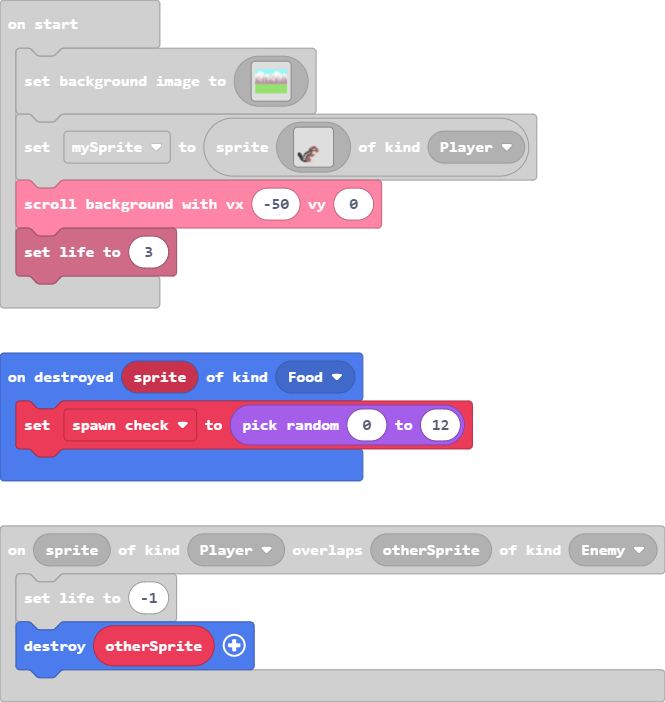
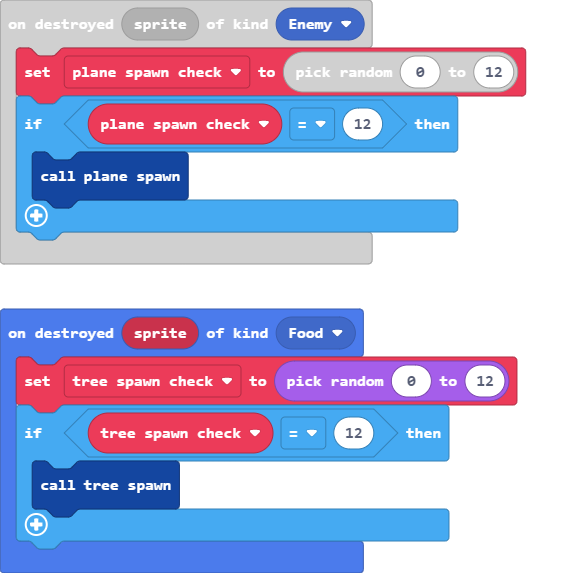
Update main.blocks, main.ts

diff --git a/main.ts b/main.ts
@@ -96,7 +96,10 @@ function car_spawn () {
     car.setFlag(SpriteFlag.AutoDestroy, true)
 }
 sprites.onDestroyed(SpriteKind.Food, function (sprite) {
-    spawn_check = randint(0, 12)
+    tree_spawn_check = randint(0, 12)
+    if (tree_spawn_check == 12) {
+        tree_spawn()
+    }
 })
 controller.A.onEvent(ControllerButtonEvent.Pressed, function () {
     acorn = sprites.create(img`
@@ -181,6 +184,12 @@ controller.A.onEvent(ControllerButtonEvent.Pressed, function () {
         ................................................................................
         ................................................................................
         `, SpriteKind.Projectile)
+})
+sprites.onDestroyed(SpriteKind.Enemy, function (sprite) {
+    plane_spawn_check = randint(0, 12)
+    if (plane_spawn_check == 12) {
+        plane_spawn()
+    }
 })
 function plane_spawn () {
     plane = sprites.create(img`
@@ -274,8 +283,9 @@ sprites.onOverlap(SpriteKind.Player, SpriteKind.Enemy, function (sprite, otherSp
     otherSprite.destroy()
 })
 let plane: Sprite = null
+let plane_spawn_check = 0
 let acorn: Sprite = null
-let spawn_check = 0
+let tree_spawn_check = 0
 let car: Sprite = null
 let firsttouch = false
 let tree: Sprite = null
